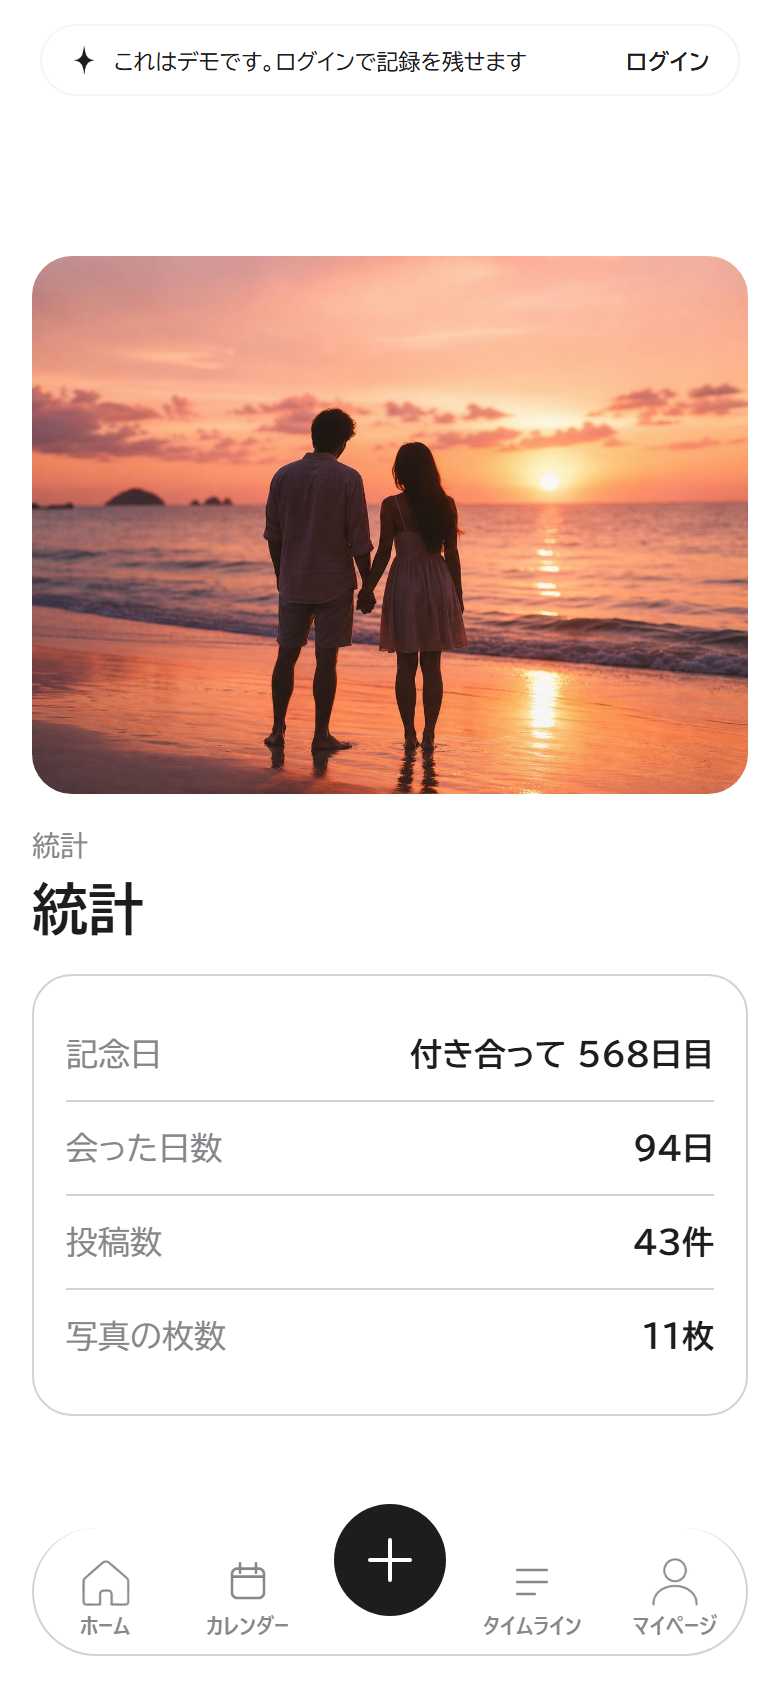
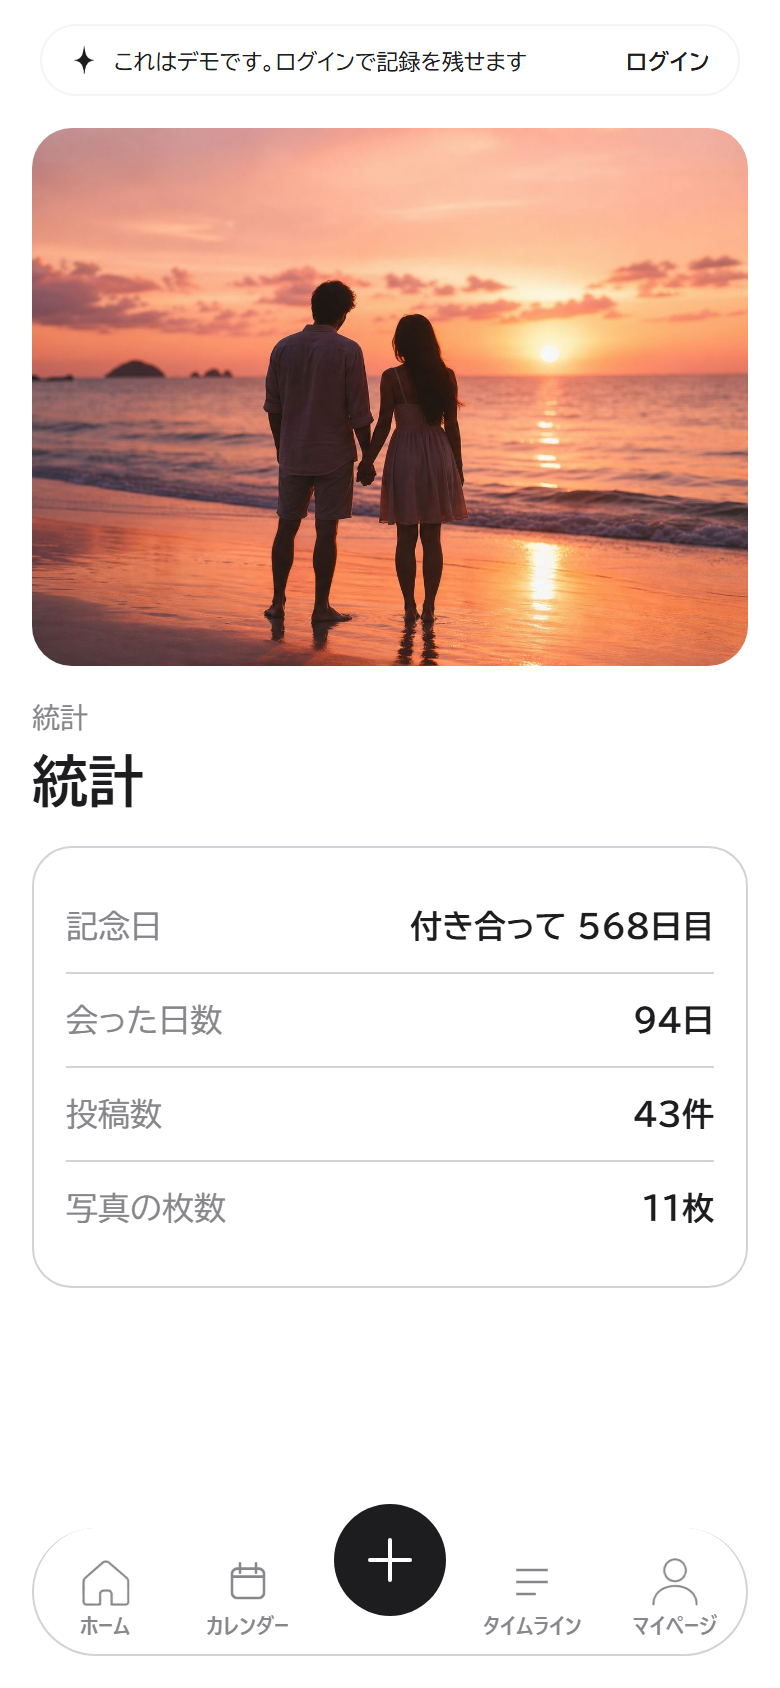
039 段階2: ホワイトの統計はヘッダごと消す（A の訂正。題を空にしただけだと空の帯が残る）
Session: B

diff --git a/apps/app/app/(tabs)/stats.tsx b/apps/app/app/(tabs)/stats.tsx
@@ -102,11 +102,11 @@ export default function StatsScreen() {
   if (appearance === "white") {
     return (
       <Screen>
-        {/* A の指摘: ホワイトではスタックのヘッダ「統計」+ 二段見出しの「統計」で
-            「統計」が3回並ぶ。モックにヘッダは無い。ホワイトのときだけヘッダの題を
-            空にし、下線（影）を消す。ヘッダ自体は残す（(tabs)/_layout.tsx の
-            headerShown: true のまま）。ピンクは変えない */}
-        <Tabs.Screen options={{ headerTitle: "", headerShadowVisible: false }} />
+        {/* A の指摘: ホワイトでは Tabs のヘッダ「統計」+ 二段見出しの「統計」で
+            「統計」が3回並ぶ。モックにヘッダは無い。この画面は Tabs の中（href: null）で
+            ヘッダには題しか無く戻るボタンも無いので、ホワイトのときだけヘッダごと消す
+            （題を空にするだけだと空の帯が約 65pt 残った。A の訂正）。ピンクは変えない */}
+        <Tabs.Screen options={{ headerShown: false }} />
         <ScrollView contentContainerStyle={{ padding: space.lg, paddingBottom: TAB_BAR_CLEARANCE, gap: space.lg }}>
           {/* 4:3 の箱は View で作る（react-native-web の Image に直接 aspectRatio を
               当てると効かず、縦長に伸びた。B が実機で確認。機能パネルのタイルと同じ形） */}

diff --git a/apps/app/test/white-stage2.test.tsx b/apps/app/test/white-stage2.test.tsx
@@ -153,11 +153,11 @@ describe("f: 統計のヒーロー", () => {
     expect(screen.getByText("94日")).toBeInTheDocument();
   });
 
-  it("white ではヘッダの題を空にし下線を消す（「統計」が3回並ばない。A の指摘）", async () => {
+  it("white ではヘッダごと消す（「統計」が3回並ばない。Tabs のヘッダは題しか無い。A の指摘）", async () => {
     renderIn("white", <StatsScreen />);
     await screen.findByTestId("stats-hero");
     const options = JSON.parse(screen.getByTestId("tabs-screen-options").getAttribute("aria-label") ?? "{}");
-    expect(options).toEqual({ headerTitle: "", headerShadowVisible: false });
+    expect(options).toEqual({ headerShown: false });
   });
 
   it("pink ではヘッダを上書きしない（(tabs)/_layout.tsx の題「統計」のまま）", async () => {

diff --git a/artifacts/039/stage2.md b/artifacts/039/stage2.md
@@ -54,9 +54,10 @@
 **要る形**: 横長 4:3、長辺 1280px（`layout.maxWidth` 640 × 2倍）。
 
 **ヘッダ（A の指摘）**: ホワイトではスタックのヘッダ「統計」+ 二段見出しで「統計」が3回並んでいた。モックにヘッダは無い。
-ホワイトのときだけ `<Tabs.Screen options={{ headerTitle: "", headerShadowVisible: false }} />` で題を空にし下線を消した
-（ヘッダ自体は残す。ピンクは変えない。`stats.tsx` は既に `appearance` を読む画面なので3箇所目にはならない）。
-テスト: white では options が渡り、pink では渡らない。
+この画面は Tabs の中（`href: null`）でヘッダには題しか無く戻るボタンも無いので、ホワイトのときだけ
+`<Tabs.Screen options={{ headerShown: false }} />` でヘッダごと消した（最初は題を空にしただけで、空の帯が約 65pt
+残った。A の訂正）。ピンクは変えない。`stats.tsx` は既に `appearance` を読む画面なので3箇所目にはならない。
+テスト: white では `headerShown: false` が渡り、pink では渡らない。
 
 `react-native-web` の `Image` に直接 `aspectRatio` を当てると効かず、縦長に伸びた（B が実機で確認。`View` で 4:3 の箱を作り、
 中に `Image` を敷く形にした。機能パネルのタイルと同じ）。

diff --git a/docs/worklog.md b/docs/worklog.md
@@ -12634,3 +12634,9 @@ Session: B
 - ホワイトの統計で「統計」が3回並ぶ（ヘッダ + 二段見出し）。ホワイトのときだけ `Tabs.Screen` の options でヘッダの題を空にし下線を消した（ヘッダは残す。ピンクは変えない）。テスト2本追加。apps/app 352件・型チェック・lint 緑。ピンクは画素 0 差のまま
 
 Session: B
+
+## 2026-09-13 セッションB: 039 段階2 の A 訂正（統計のヘッダはごと消す）
+
+- 題を空にしただけだと空の帯（約65pt）が残った。統計は Tabs の中で戻るボタンも元から無いので、ホワイトのときだけ `headerShown: false` に（A の訂正）。ピンクは変えない。テスト差し替え。352件・型チェック・lint 緑。ピンク画素0差
+
+Session: B
